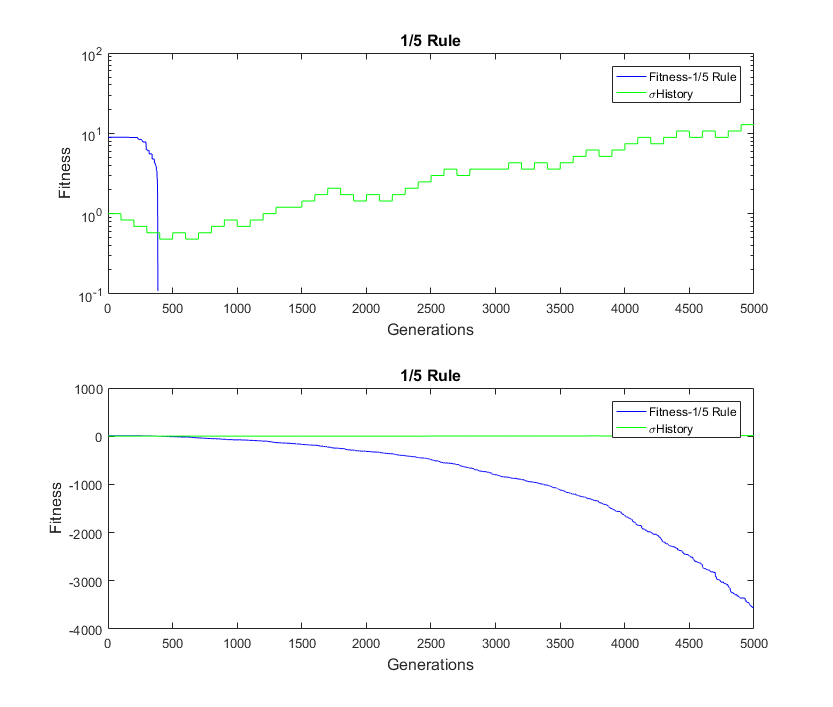
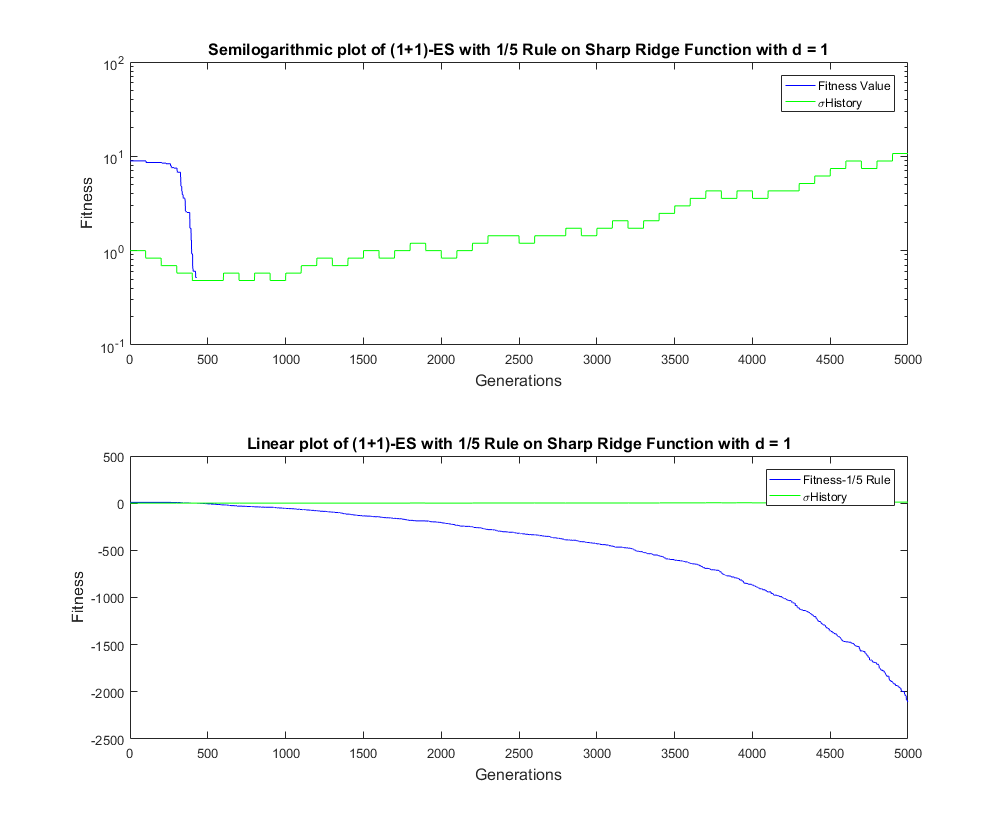
everything changed

diff --git a/task2a/OnePlusOne_ES.m b/task2a/OnePlusOne_ES.m
@@ -1,20 +1,19 @@
 %input:
-    %mutationlocalMisclassifiedCntunctionName: Function for fitnes
-    %yParents: Vector of parents (even if there is only one parent)
+    %fitnessFunctionName: Function for fitness
+    %yParent: Vector of parent
     %sigmaMutationStrength: Mutation strength
-    %maxNrOfIter: Maximal repitations of Generations
+    %maxNrOfIter: Maximum generations
     %minChangeDistance: Never decrease this distance after mutation
 
 %output:
-    %SelectedIndividuals: Vector of individuals having a better fittnes than
-                            %their parents, or parents whose offspring were
-                            %not as fit as them.
-    %numberOfIteration: Numpers of Repitations
-    %Fitness:  Fitness Value of Used Child
+    %numberOfIteration: Numpers of iterations
+    %yOffspring: generated offspring
+    %offspringFitness: fitness of yoffspring
+    %offspringFitnessHistory
 
-function [numberOfIteration, yOffsprings, offspringFitness, offspringFitnessHistory] = OnePlusOne_ES(...
-    mutationFunctionName,...
-    yParents,...
+function [numberOfIteration, yOffspring, offspringFitness, offspringFitnessHistory] = OnePlusOne_ES(...
+    fitnessFunctionName,...
+    yParent,...
     sigmaMutationStrength,...
     maxNrOfIter,...
     minChangeDistance)
@@ -32,23 +31,23 @@ function [numberOfIteration, yOffsprings, offspringFitness, offspringFitnessHist
     offspringFitnessHistory = [];
     
     % initial yp & sigmaMutationStrength
-    parentFitness = feval(mutationFunctionName, yParents); %Parental Fitness
+    parentFitness = feval(fitnessFunctionName, yParent); %Parental Fitness
     numberOfIteration=1; %generation count
     
     while numberOfIteration <= maxNrOfIter
         %generate offspring
-        [R,C] = size(yParents);
-        yOffsprings = yParents + sigmaMutationStrength * normrnd(0,1,R,C); %random Normal distribution = RN
-        offspringFitness = feval(mutationFunctionName, yOffsprings);
+        [R,C] = size(yParent);
+        yOffspring = yParent + sigmaMutationStrength * normrnd(0,1,R,C); %random Normal distribution = RN
+        offspringFitness = feval(fitnessFunctionName, yOffspring);
         
         % other two break conditions
         if ((abs(offspringFitness-parentFitness) < minChangeDistance))
            break;
         elseif (offspringFitness <= parentFitness) %replace if fitness is not worse
-            yParents = yOffsprings;
+            yParent = yOffspring;
             parentFitness = offspringFitness;  
         end
-        offspringFitnessHistory = [offspringFitnessHistory, parentFitness];
+        offspringFitnessHistory(numberOfIteration) = parentFitness;
         numberOfIteration = numberOfIteration + 1;
     end
 end

diff --git a/task2b/OnePlusOne_ES_oneMax.m b/task2b/OnePlusOne_ES_oneMax.m
@@ -1,0 +1,72 @@
+%input:
+    %mutationlocalMisclassifiedCntunctionName: Function for fitnes
+    %yParent: Vector of parents (even if there is only one parent)
+    %bestFitness: best possible fitness that can be achieved
+    %probabilityOfOnes: propability of Ones
+    %maxNrOfIter: Maximal repitations of Generations
+    %minChangeDistance: Never decrease this distance after mutation
+
+%output:
+    %SelectedIndividuals: Vector of individuals having a better fittnes than
+                            %their parents, or parents whose offspring were
+                            %not as fit as them.
+    %numberOfIteration: Numpers of Repitations
+    %Fitness:  Fitness Value of Used Child
+
+function [numberOfIteration, yOffspring, offspringFitness, offspringFitnessHistory] = OnePlusOne_ES_oneMax(...
+    fitnessFunctionName,...
+    yParent,...
+    probabilityOfOnes,...
+    maxNrOfIter,...
+    minChangeDistance)
+    
+    if nargin < 2
+        %output error 
+        error('Wrong nr of Inputs');
+    elseif nargin == 2 %nubers of argument in
+        maxNrOfIter = 100;
+        minChangeDistance = 1e-10;
+    elseif nargin == 3
+        minChangeDistance = 1e-10;  
+    end
+    
+    offspringFitnessHistory = [];
+    [R,N] = size(yParent);
+            
+    % initial yp & sigmaMutationStrength
+    parentFitness = feval(fitnessFunctionName, yParent); %Parental Fitness
+    numberOfIteration=1; %generation count
+    
+    while numberOfIteration <= maxNrOfIter
+        %generate offspring
+        yOffspring = SwitchBitsWithProbability(yParent, probabilityOfOnes);
+        offspringFitness = feval(fitnessFunctionName, yOffspring);
+        
+        % other two break conditions
+        if(offspringFitness == N)
+            % best possible fitness achieved, break
+            break
+        end
+        if (offspringFitness >= parentFitness) %replace if fitness is not worse
+            yParent = yOffspring;
+            parentFitness = offspringFitness;  
+        end
+        offspringFitnessHistory(numberOfIteration) = parentFitness;
+        numberOfIteration = numberOfIteration + 1;
+    end
+end
+
+function[ret] = SwitchBitsWithProbability(yParent, p)
+    N = size(yParent,2);
+    for i = 1 : N
+        if(rand() < p)
+            if(yParent(i) == 1)
+                yParent(i) = 0;
+            else
+                yParent(i) = 1;
+            end        
+        end
+    end
+    ret = yParent;
+end
+

diff --git a/task3/OnePlusOne_ES.m b/task3/OnePlusOne_ES.m
@@ -6,17 +6,13 @@
     %minChangeDistance: Never decrease this distance after mutation
 
 %output:
-    %numberOfIterations: Numpers of Repitations    
-    %yParent: last calculated best individuum
-    %parentFitness: last calculated best fitness value
-    %offspringFitnessHistory: Array of all best fitness values per G
+    %numberOfIteration: Numpers of iterations
+    %yOffspring: generated offspring
+    %offspringFitness: fitness of yoffspring
+    %offspringFitnessHistory
 
-
-    %G - Number of Generations G = N
-
-
-function [numberOfIterations, yParent, parentFitness, offspringFitnessHistory] = OnePlusOne_ES(...
-    mutationFunctionName,...
+function [numberOfIteration, yOffspring, offspringFitness, offspringFitnessHistory] = OnePlusOne_ES(...
+    fitnessFunctionName,...
     yParent,...
     sigmaMutationStrength,...
     maxNrOfIter,...
@@ -32,17 +28,17 @@ function [numberOfIterations, yParent, parentFitness, offspringFitnessHistory] =
         minChangeDistance = 1e-10;     
     end
     
-    [R,C] = size(yParent);
     offspringFitnessHistory = [];
     
     % initial yp & sigmaMutationStrength
-    parentFitness = feval(mutationFunctionName, yParent); %Parental Fitness
-    numberOfIterations=1; %generation count
+    parentFitness = feval(fitnessFunctionName, yParent); %Parental Fitness
+    numberOfIteration=1; %generation count
     
-    while numberOfIterations <= maxNrOfIter
+    while numberOfIteration <= maxNrOfIter
         %generate offspring
+        [R,C] = size(yParent);
         yOffspring = yParent + sigmaMutationStrength * normrnd(0,1,R,C); %random Normal distribution = RN
-        offspringFitness = feval(mutationFunctionName, yOffspring);
+        offspringFitness = feval(fitnessFunctionName, yOffspring);
         
         % other two break conditions
         if ((abs(offspringFitness-parentFitness) < minChangeDistance))
@@ -51,7 +47,7 @@ function [numberOfIterations, yParent, parentFitness, offspringFitnessHistory] =
             yParent = yOffspring;
             parentFitness = offspringFitness;  
         end
-        offspringFitnessHistory = [offspringFitnessHistory, parentFitness];
-        numberOfIterations = numberOfIterations + 1;
+        offspringFitnessHistory(numberOfIteration) = parentFitness;
+        numberOfIteration = numberOfIteration + 1;
     end
 end

diff --git a/task2b/Run.m b/task2b/Run.m
@@ -1,0 +1,39 @@
+addpath ..\fitness
+%N = 10, 20,... , 300
+N = (1:30).*10;
+allGenerationsUntilMax = [];
+nReplications = 100;
+
+for j = 1 : size(N,2)
+    N(j)
+    generationSum = 0;
+    
+    for k = 1 : nReplications
+        yp = zeros(1,N(j)); 
+        for i = 1 : N(j)
+           if(rand() < 0.5)
+                yp(i) = 1;
+           end   
+        end
+
+        pm = 1/N(j);
+
+        [numberOfIteration, yOffsprings, offspringFitness, offspringFitnessHistory] = ...
+            OnePlusOne_ES_oneMax('OneMax', yp, pm, 1e6);
+        generationSum = generationSum + size(offspringFitnessHistory,2);
+    end
+   
+    allGenerationsUntilMax(j) = generationSum/nReplications;
+end
+
+subplot(2,1,1);
+semilogy(allGenerationsUntilMax, '-', 'Color', 'blue');
+xlabel('N/10', 'Fontsize', 12);
+ylabel('Generations', 'Fontsize', 12);
+title('(1+1)-ES B^{100} with pm=0.01')
+
+subplot(2,1,2);
+plot(allGenerationsUntilMax, '-', 'Color', 'blue');
+xlabel('N/10', 'Fontsize', 12);
+ylabel('Generations', 'Fontsize', 12);
+title('(1+1)-ES B^{100} with pm=0.01')

diff --git a/task4/Run_Task4_SharpRidgeFunction.m b/task4/Run_Task4_SharpRidgeFunction.m
@@ -1,6 +1,6 @@
 %(1+1)ES
 N = 30;
-d = 1;
+d = 10;
 yp(1:N) = 1; 
 sigmaStopCondition = 10^-5;
 sigma = 1;
@@ -12,18 +12,17 @@ subplot(2,1,1)
 semilogy(offspringFitnessHistory,'Color', 'blue');
 hold on;
 semilogy(sigmaHistory,'Color', 'green');
-
 xlabel('Generations', 'FontSize', 12);
 ylabel('Fitness', 'FontSize', 12);
-title('1/5 Rule', 'FontSize', 12);
-legend('Fitness-1/5 Rule','\sigmaHistory');
+title('Semilogarithmic plot of (1+1)-ES with 1/5 Rule on Sharp Ridge Function with d = 10', 'FontSize', 12);
+legend('Fitness Value','\sigmaHistory');
+
 
 subplot(2,1,2)
 plot(offspringFitnessHistory, 'Color', 'blue');
 hold on;
 plot(sigmaHistory,'Color', 'green');
-
 xlabel('Generations', 'FontSize', 12);
 ylabel('Fitness', 'FontSize', 12);
-title('1/5 Rule', 'FontSize', 12);
+title('Linear plot of (1+1)-ES with 1/5 Rule on Sharp Ridge Function with d = 10', 'FontSize', 12);
 legend('Fitness-1/5 Rule','\sigmaHistory');

diff --git a/task4/Run_Task4_ParabolicRidgeFunction.m b/task4/Run_Task4_ParabolicRidgeFunction.m
@@ -1,6 +1,6 @@
 %(1+1)ES
 N = 30;
-d = 1;
+d = 10;
 yp(1:N) = 1; 
 sigmaStopCondition = 10^-5;
 sigma = 1;
@@ -15,8 +15,8 @@ semilogy(sigmaHistory,'Color', 'green');
 
 xlabel('Generations', 'FontSize', 12);
 ylabel('Fitness', 'FontSize', 12);
-title('1/5 Rule', 'FontSize', 12);
-legend('Fitness-1/5 Rule','\sigmaHistory');
+title('Semilogarithmic plot of (1+1)-ES with 1/5 Rule on Parabolic Ridge Function with d = 10', 'FontSize', 12);
+legend('Fitness Value','\sigmaHistory');
 
 subplot(2,1,2)
 plot(offspringFitnessHistory, 'Color', 'blue');
@@ -25,5 +25,5 @@ plot(sigmaHistory,'Color', 'green');
 
 xlabel('Generations', 'FontSize', 12);
 ylabel('Fitness', 'FontSize', 12);
-title('1/5 Rule', 'FontSize', 12);
-legend('Fitness-1/5 Rule','\sigmaHistory');
+title('Linear plot of (1+1)-ES with 1/5 Rule on Parabolic Ridge Function with d = 10', 'FontSize', 12);
+legend('Fitness Value','\sigmaHistory');

diff --git a/task2b/Run_ES.m b/task2b/Run_ES.m
@@ -1,0 +1,19 @@
+addpath ..\fitness
+N = 100;
+yp = zeros(1,N); 
+  
+for i = 1 : N
+   if(rand() < 0.5)
+        yp(i) = 1;
+   end   
+end
+
+pm = 1/N
+
+[numberOfIteration, yOffsprings, offspringFitness, offspringFitnessHistory] = OnePlusOne_ES_oneMax('OneMax', yp, pm, 1e6);
+
+semilogy(offspringFitnessHistory, '-', 'Color', 'blue');
+xlabel('Generations', 'Fontsize', 12);
+ylabel('Fitness', 'Fontsize', 12);
+title('(1+1)-ES B^{100} with pm=0.01')
+

diff --git a/task3/RunAll_Task3.m b/task3/RunAll_Task3.m
@@ -15,6 +15,6 @@ semilogy(offspringFitnessHistoryOld,'Color', 'red');
 
 xlabel('Generations', 'FontSize', 12);
 ylabel('Fitness', 'FontSize', 12);
-title('1/5 Rule', 'FontSize', 12);
-legend('Fitness-1/5 Rule','\sigmaHistory','\offspringFitnessHistoryOld');
+title('(1+1)-ES comparison with and without 1/5 rule', 'FontSize', 12);
+legend('Fitness Value','\sigmaHistory','\offspringFitnessHistoryOld');
 

diff --git a/task2a/RunAll.m b/task2a/RunAll.m
@@ -6,9 +6,9 @@ sigma = 1;
 numberOfIteration
 yOffsprings
 offspringFitness
-semilogy(offspringFitnessHistory, '-', 'Color', 'blue', 'linewidth', 3);
+semilogy(offspringFitnessHistory, '-', 'Color', 'blue');
 
 xlabel('Generations', 'FontSize', 12);
 ylabel('Fitness', 'FontSize', 12);
-title('(1+1) - ES Cubic', 'FontSize', 12);
+title('(1+1)-ES on Sphere Function', 'FontSize', 12);
 legend('Fitness');

diff --git a/task3/RunAll_Task3b.m b/task3/RunAll_Task3b.m
@@ -4,7 +4,7 @@ sigmaStopCondition = 10^-5;
 sigma = 1;
 randn('state', 7); 
 
-[yParent, sigmaHistory, offspringFitnessHistory] = OnePlusOne_ES_Task3('sharpRidgeFunction', yp, sigma, sigmaStopCondition);
+[yParent, sigmaHistory, offspringFitnessHistory] = OnePlusOne_ES_Task3('sphereFunction', yp, sigma, sigmaStopCondition);
 
 semilogy(offspringFitnessHistory,'Color', 'blue');
 hold on;

diff --git a/fitness/OneMax.m b/fitness/OneMax.m
@@ -1,0 +1,3 @@
+function [ret] = OneMax(x) 
+    ret = sum(x);
+end
